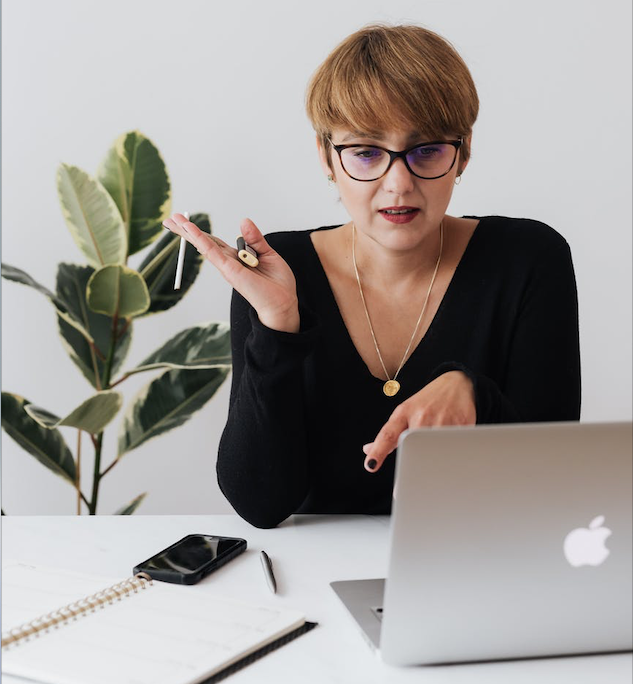
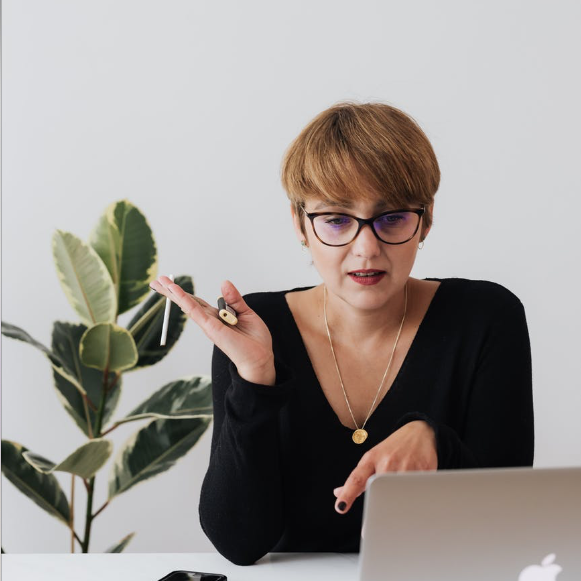
resize foto laura y logotipo

diff --git a/index.html b/index.html
@@ -56,7 +56,7 @@
 
                 <div class="valentina">
                     <img class="fotoValentina" src="valentina.png" alt="Foto Valentina"/>
-                    <h3>Valentina    <a href="https://github.com/19valentinavergara98" target="_blank"> <span class="icon-github"></span></a>    <a href=""target="_blank" ></a></a><span class="icon-linkedin"></span></h3>
+                    <h3>Valentina    <a href="https://github.com/19valentinavergara98" target="_blank"> <span class="icon-github"></span></a>    <a href="https://www.linkedin.com/in/valentina-luz-vergara-3649181b9/"target="_blank" ></a></a><span class="icon-linkedin"></span></h3>
                     <p class= "parrafoposicion">SENIOR FRONT END DEVELOPER</p>
                     <a></a>
                     <a></a>
